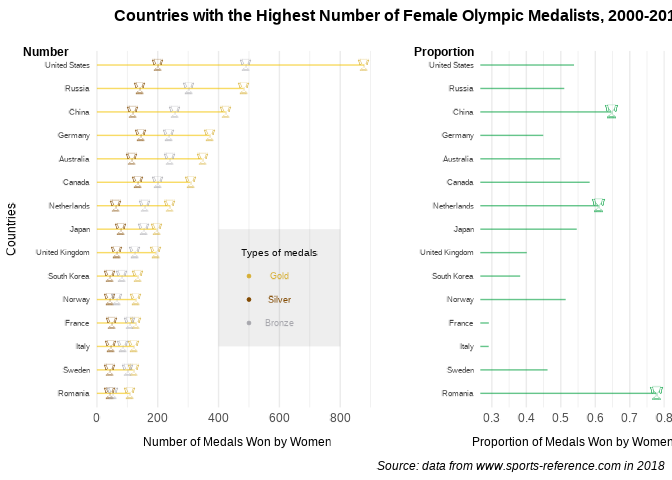
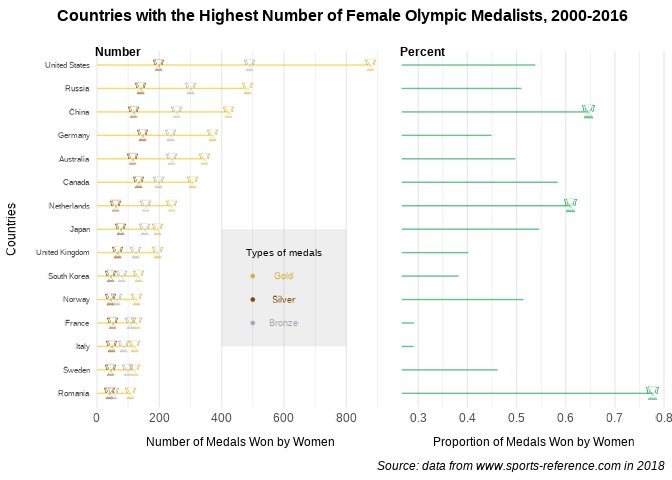
adjust figure and knit

diff --git a/Write-Up.md b/Write-Up.md
@@ -2,23 +2,17 @@ Visual Analysis of Olympics Performance
 ================
 Elated Anura
 
--   [Visual Analysis of Olympics
+  - [Visual Analysis of Olympics
     Performance](#visual-analysis-of-olympics-performance)
-    -   [Introduction](#introduction)
-    -   [Question 1 – The Olympics and the Cold
+      - [Introduction](#introduction)
+      - [Question 1 – The Olympics and the Cold
         War](#question-1--the-olympics-and-the-cold-war)
-    -   [Question 2 – Women in the
+      - [Question 2 – Women in the
         Olympics](#question-2--women-in-the-olympics)
 
 # Visual Analysis of Olympics Performance
 
 ## Introduction
-
-(1-2 paragraphs): Brief introduction to the dataset. You may repeat some
-of the information about the dataset provided in the introduction to the
-dataset on the TidyTuesday repository, paraphrasing on your own terms.
-Imagine that your project is a standalone document and the grader has no
-prior knowledge of the dataset.
 
 The dataset we have picked, `olympics_data`, is available on kaggle and
 contains historical data on all modern Olympic games starting from
@@ -181,13 +175,8 @@ and Warsaw Pact countries below.
 q1_df <- olympics_joined %>%
   filter(year >= 1922) %>%
   group_by(year, usa_ussr, season) %>%
-  summarize(medal_prop = (sum(medal_binary)/medal_sum))
-```
+  summarize(medal_prop = (sum(medal_binary)/medal_sum), .groups = "drop")
 
-    ## `summarise()` has grouped output by 'year', 'usa_ussr', 'season'. You can
-    ## override using the `.groups` argument.
-
-``` r
 #create plot mapping USA/USSR/others medals over time
 q1_df %>%
   ggplot(mapping = aes(x = year, y = medal_prop, color = usa_ussr, na.rm = TRUE))+
@@ -229,14 +218,9 @@ q2_df <- olympics_joined %>%
   mutate(country = recode(country, "Germany" = "United Team of Germany (1956-1964)"),
          country = recode(country, "German Democratic Republic" = "East Germany"),
          nato_wp = as.factor(recode_if(nato_wp, country == "United Team of Germany (1956-1964)", "NATO" = "Both"))) %>%
-  group_by(country, nato_wp, year) %>%
-  summarize(medals_won = sum(medal_binary))
-```
+  group_by(country, nato_wp) %>%
+  summarize(medals_won = sum(medal_binary), .groups = "drop")
 
-    ## `summarise()` has grouped output by 'country', 'nato_wp'. You can override
-    ## using the `.groups` argument.
-
-``` r
 #create stacked bar chart mapping amount of medals won by country
 q2_df %>%
   ggplot(mapping = aes(y = reorder(country, medals_won), x = medals_won, fill = nato_wp)) +
@@ -328,12 +312,12 @@ plot. This plot comes from a summarized table with the average
 proportion of female athletes and the proportion of games female
 athletes participate in over the years. The two measures are positioned
 on the y-axis and illustrated in different colors - and they are
-manually set to be in Olympic-logo colors! The year for each event is on
-the x-axis. The season information is demonstrated through two different
-facets. We choose the line plot format first because it can best
-visually represent the trend information. Second, it has an advantage in
-terms of data-ink-ratio for visualization, therefore it helps simplify
-the complexities in our aggregated data.
+manually set to be in Olympic-logo colors\! The year for each event is
+on the x-axis. The season information is demonstrated through two
+different facets. We choose the line plot format first because it can
+best visually represent the trend information. Second, it has an
+advantage in terms of data-ink-ratio for visualization, therefore it
+helps simplify the complexities in our aggregated data.
 
 For the second part, “Which countries have the highest numbers of female
 medalists or enjoy the most contributions from female athletes over the
@@ -461,14 +445,16 @@ q2_p2_2 <- top_15 %>%
        caption = "Source: data from www.sports-reference.com in 2018") + 
   bg_theme +
   theme(axis.title.y = element_blank(),
-        axis.text.y = element_text(size = rel(0.7)),
+        axis.text.y = element_blank(),
         panel.grid.major.y = element_blank()) 
 # Adding two plots together for comparison
-q2_p2 <- plot_grid(q2_p2_1, q2_p2_2, rel_widths = c(4, 3), nrow = 1,
-                   align = "hv", labels = c("Number", "Proportion"), label_size = 9)
+
+q2_p2 <- plot_grid(q2_p2_1, NULL, q2_p2_2, rel_widths = c(3.2, -0.7, 3), nrow = 1,
+                   align = "hv", labels = c(str_pad("Number", 22, "left", " "), "", 
+                                            str_pad("Percent", 23, "left", " ")), label_size = 9)
 title <- ggdraw() + 
   draw_label("Countries with the Highest Number of Female Olympic Medalists, 2000-2016",
-             fontface = 'bold', x = 0, hjust = -0.2, size = 12) +
+             fontface = 'bold', x = 0, hjust = -0.1, size = 12) +
   theme(plot.margin = margin(b = 10))
 plot_grid(title, q2_p2, ncol = 1, rel_heights = c(0.1, 1))
 ```
